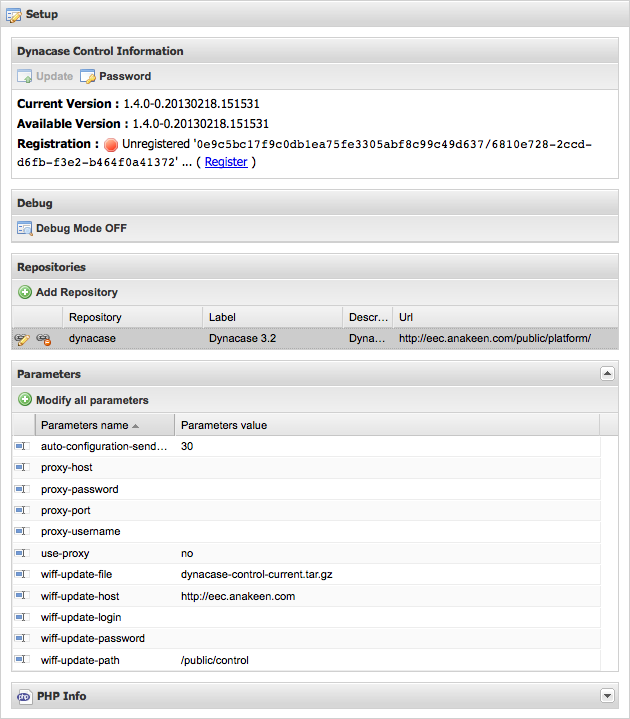
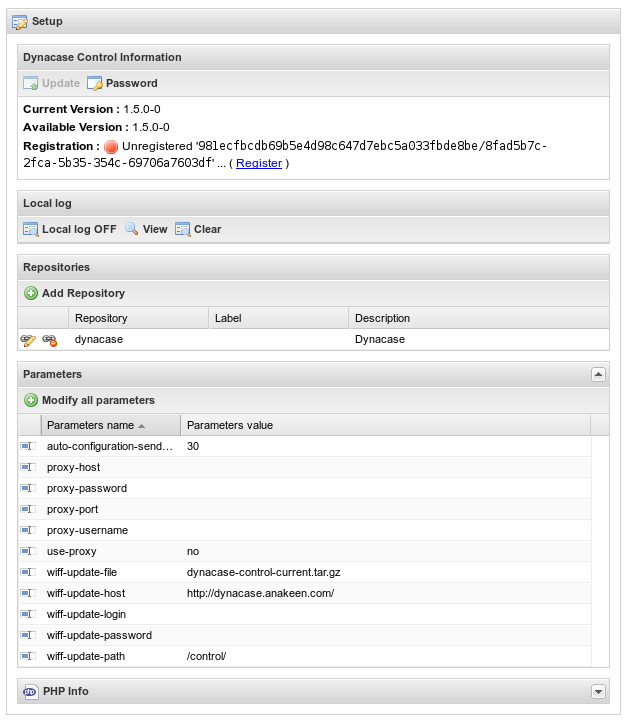
doc(log): Explain dynacase-control's error logging (refs #5137)

Changed region(s): [[0.0, 0.0, 1.0, 1.0], [0.2723, 0.765, 0.5446, 0.8567]]

diff --git a/Contents/installation-control.md b/Contents/installation-control.md
@@ -63,7 +63,7 @@ L'interface `Control > Setup` permet de configurer Dynacase Control. Vous pouvez
 * Mettre à jour Dynacase Control lorsqu'une nouvelle version est détectée
 * Changer le mot de passe de connexion à Dynacase Control : “Dynacase Control Information > Password”
 * Enregistrer son Dynacase Control avec son compte EEC : “Dynacase Control Information > Registration > Register”
-* (Dés)Activer le mode debug de Dynacase Control : “Debug > Debug Mode On/Off”
+* (Dés)Activer le journal local des erreurs de Dynacase Control : “Local log > Local log On/Off”
 * Ajouter/Supprimer/Modifier des dépôt de paquets : ”Repositories”
 * Modifier les paramètres de Dynacase Control : ”Parameters”
 * Voir les paramètres de PHP : “PHP Info”
@@ -140,3 +140,49 @@ Si vos accès aux dépôts Dynacase Platform nécessitent l'utilisation d'un pro
 | proxy-username   | Le nom d'utiliteur pour le proxy, s'il requiert une authentification                     |
 | proxy-password   | le mot de passe associé si le proxy requiert une authentification                        |
 
+## Journal des messages d'erreurs {#manex-ref:022e6b2f-cbe7-4ead-8f84-3ed8d0d718c9}
+
+Les messages d'erreurs émis par dynacase-control sont enregistrés de la manière
+suivante :
+
+* Le message est systématiquement envoyé au gestionnaire syslog local avec le
+tag `dynacase-control` et la "facility" déclarée par le paramètre
+[`syslog-facility`][syslog-facility] (`LOG_USER` par défaut).
+
+* Si le paramètre `Local log > Local log On/Off` est activé (dans la section
+[`Setup`][setup]), le message est aussi envoyé dans le fichier `log/wiff.log` et
+consultable avec le bouton `Local log > View` de la section [`Setup`][setup].
+
+### Paramétrage syslog {#manex-ref:cedce829-1eb2-4610-bb0f-c0f8ad17cbeb}
+
+#### `syslog-facility` {#manex-ref:95dce35e-55b5-4b57-8087-d743dc6f022d}
+
+La "facility" des messages émis par syslog est paramétrable par le paramètre
+`syslog-facility` qui peut prendre les valeurs suivantes :
+
+`LOG_AUTH`, `LOG_AUTHPRIV`, `LOG_CRON`, `LOG_DAEMON`, `LOG_KERN`, `LOG_LOCAL0`,
+`LOG_LOCAL1`, `LOG_LOCAL2`, `LOG_LOCAL3`, `LOG_LOCAL4`, `LOG_LOCAL5`,
+`LOG_LOCAL6`, `LOG_LOCAL7`, `LOG_LPR`, `LOG_MAIL`, `LOG_NEWS`, `LOG_SYSLOG`,
+`LOG_USER`, `LOG_UUCP`.
+
+La valeur du paramètre n'est pas modifiable par l'interface Web Pour modifier sa
+valeur il faut éditer le fichier `conf/params.xml` et changer la propriété
+`value` du paramètre `syslog-facility`.
+
+Exemple pour logger avec la "facility" `LOG_LOCAL0` :
+
+    [xml]
+    <param name="syslog-facility" mode="hidden" value="LOG_LOCAL0" />
+
+Si la valeur de ` syslog-facility` est vide, alors la "facility" `LOG_USER` est
+utilisée.
+
+Si la valeur de `syslog-facility` n'est pas une "facility" valide, alors la
+"facility" `LOG_USER` est utilisée et un message d'erreur est émis indiquant que
+la "facility" spécifiée est invalide (`Invalid syslog-facility 'XXX'. Using
+default facility.`).
+
+<!-- links -->
+[setup]: #manex-ref:8f810563-02e8-4636-8dcf-d2b36ce50828
+[php:error_log]: http://www.php.net/manual/errorfunc.configuration.php#ini.error-log
+[syslog-facility]: #manex-ref:95dce35e-55b5-4b57-8087-d743dc6f022d
